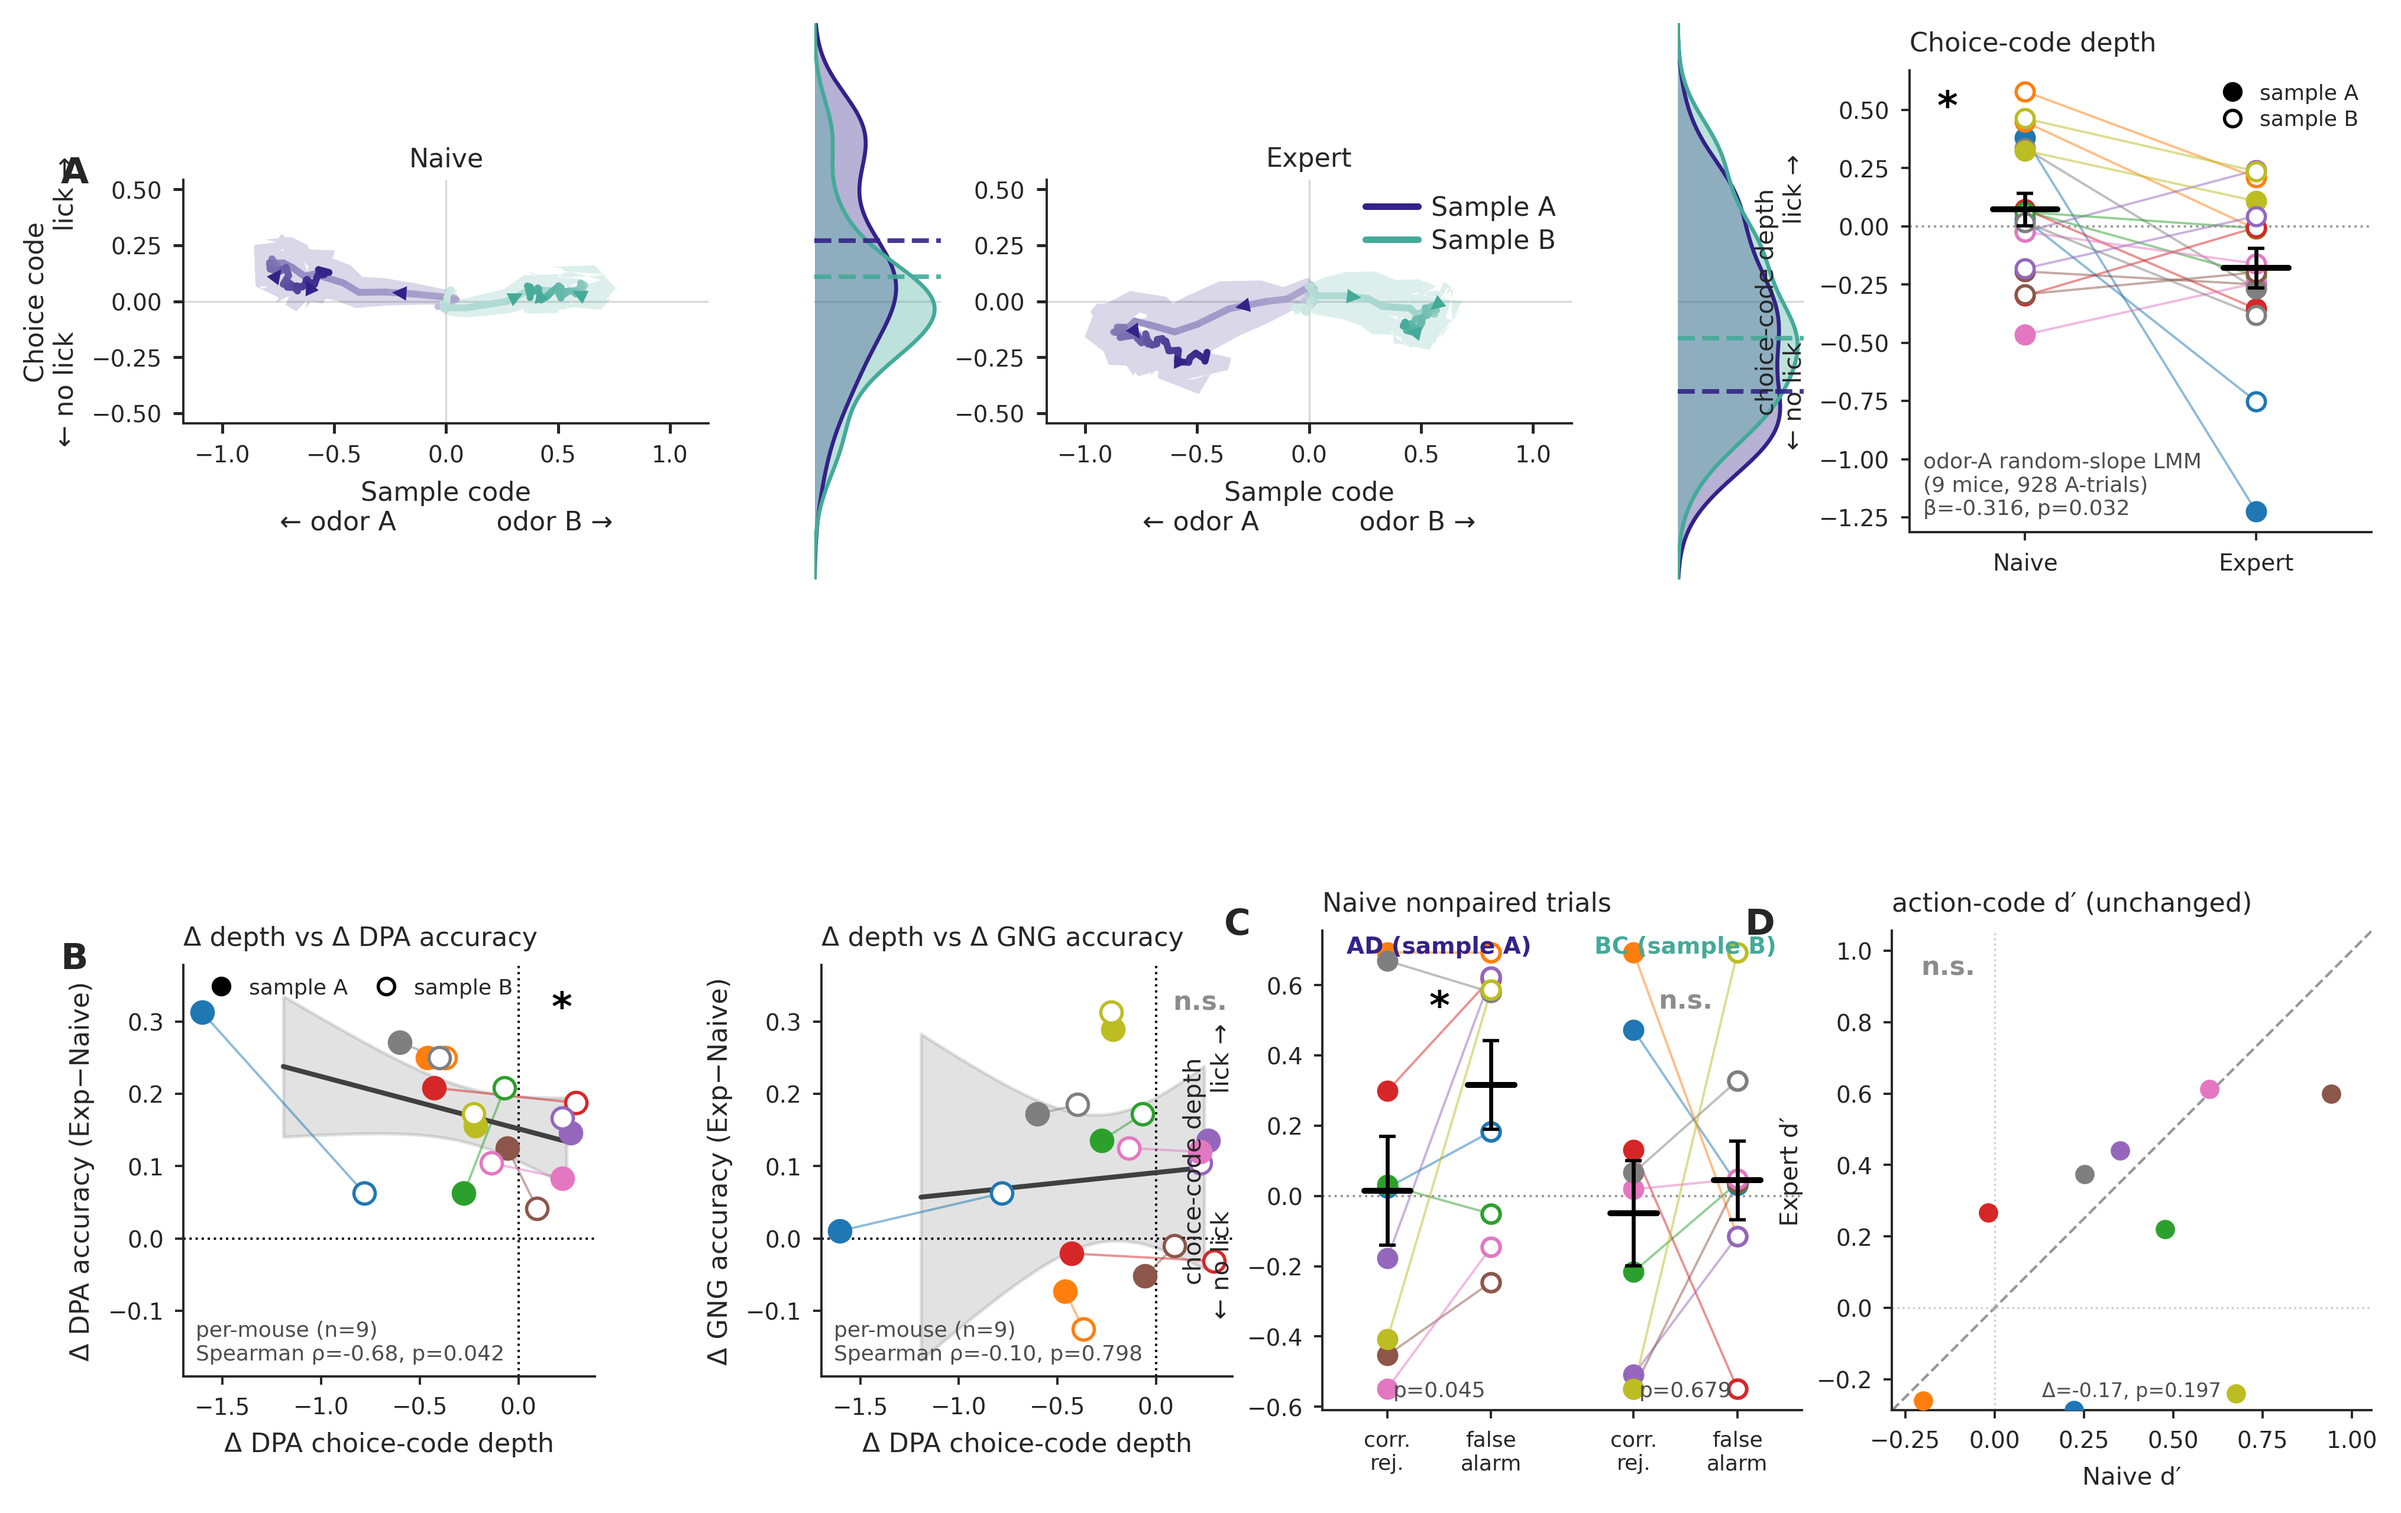
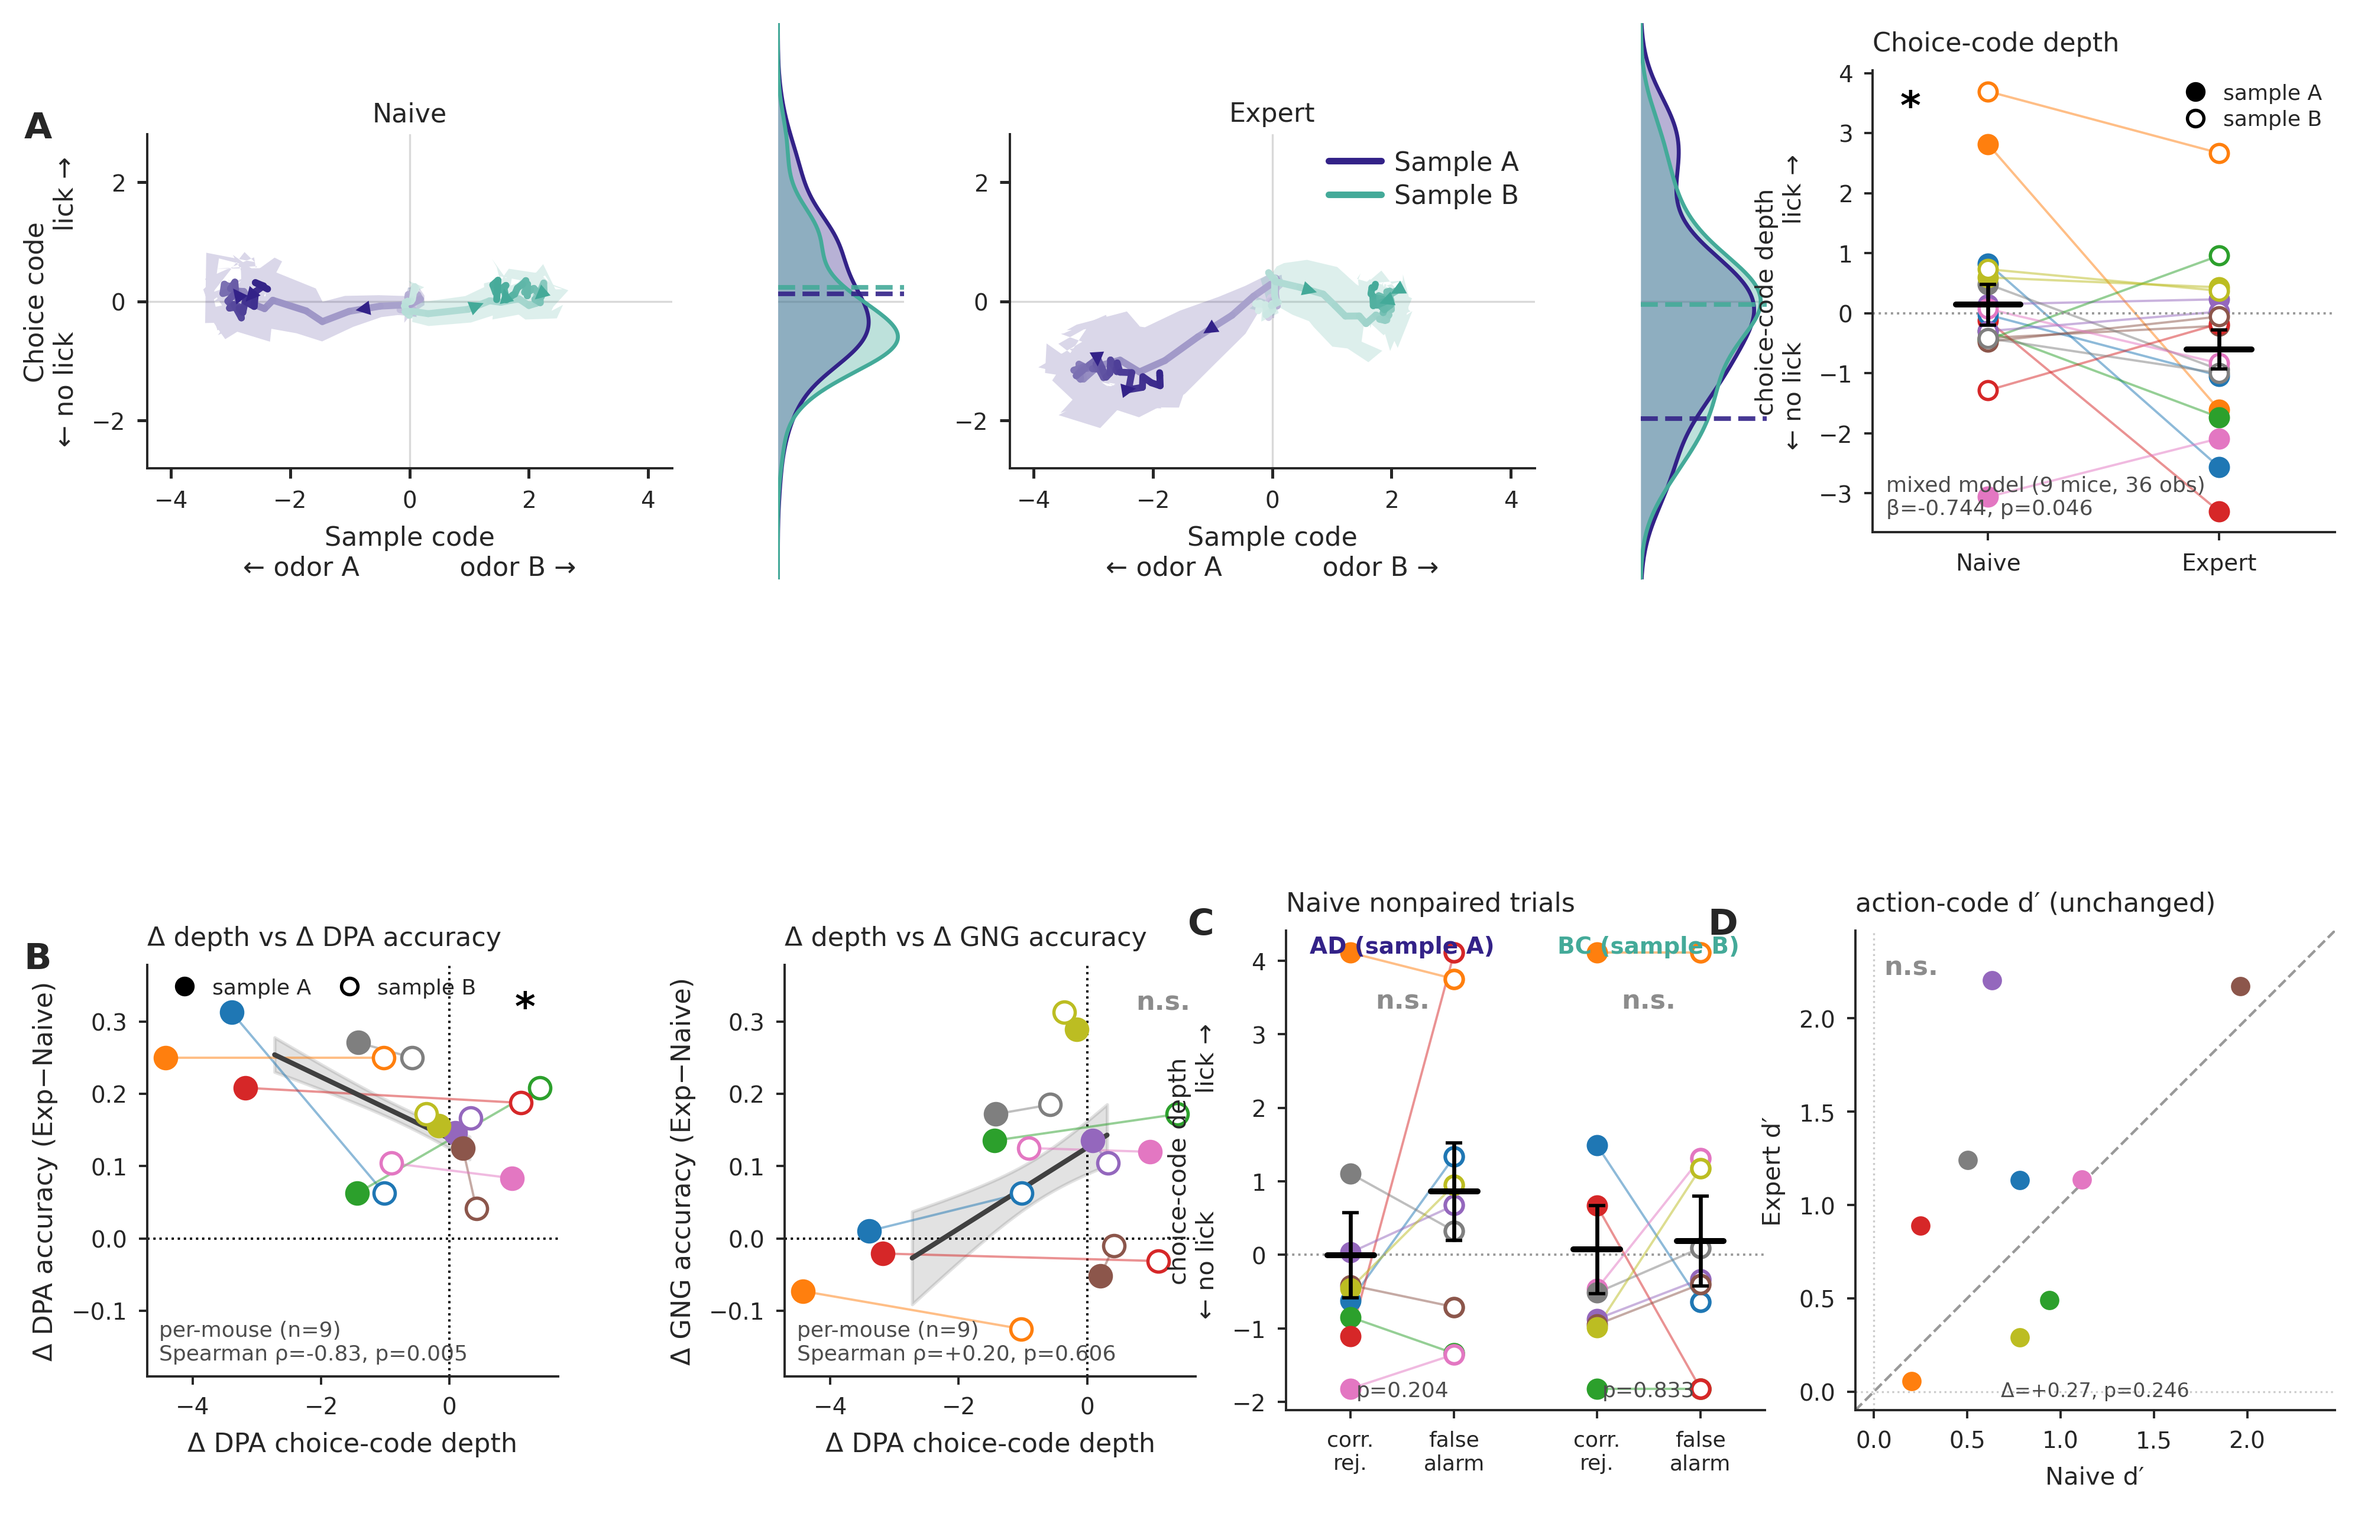
overlaps: antact+robust as ALTERNATIVE figures; restore 57-63 as the default Fig 3/Fig 4
Reverses the 'make default' change (f906214). Canonical Fig 3 (fig_overlaps_manifold.png)
and Fig 4 (fig_overlaps_main_ab_dpaact.png) are back to the original 57-63 pooled-evoked
build. The 48-62 antact + robust build is now a separate ALTERNATIVE for each figure:
- fig_overlaps_main_native.py --antact --robust -> fig_overlaps_main_ab_dpaact_antact_robust
- fig_overlaps_manifold.py    --antact --robust -> fig_overlaps_manifold_antact_robust
  (Fig 3 alt now ALSO uses robust units, per request.)
Removed the sys.argv injection / FILE_SUF override, so the flags no longer default on;
main_panels unchanged. serve_figures MAIN now has 4 cards (Fig 3, Fig 3 alt, Fig 4,
Fig 4 alt); removed the _legacy files.

Claude-Session: https://claude.ai/code/session_014C5FayLYaQfdBBbGQSqtn3

diff --git a/overlaps/fig_overlaps_main_native.py b/overlaps/fig_overlaps_main_native.py
@@ -13,12 +13,11 @@ unchanged (`fig_overlaps_main_ab{FILE_SUF}`) so existing gallery/doc references 
 
 Run:  cd /home/leon/dual/overlaps
       /home/leon/mambaforge/envs/dual/bin/python fig_overlaps_main_native.py
-Output: figures/overlaps/main/{png,svg}/fig_overlaps_main_ab_dpaact.{png,svg}
+Output: figures/overlaps/main/{png,svg}/fig_overlaps_main_ab_dpaact.{png,svg}  (default = 57-63 pooled-evoked)
 
-DEFAULT build (2026-08-06) = single anticipatory+action axis (choice @ bins 48-62) + robust sample-separation
-units + trial-level odor-A random-slope LMM. This is the settled Fig-4 convention and matches Fig 3's axis
-(fig_overlaps_manifold.py also defaults to 48-62). Pass --legacy for the old 57-63 pooled-evoked build
-(→ fig_overlaps_main_ab_dpaact_legacy).
+ALTERNATIVE build: --antact (single anticipatory+action axis, choice @ bins 48-62) + --robust (robust
+sample-separation units + trial-level odor-A random-slope LMM) → fig_overlaps_main_ab_dpaact_antact_robust.
+(All three panels ★ on that axis: push p=.032, coupling ρ=-.68 p=.042, FA/CR p=.045.)
 
 See main_panels.py for the full analysis/method docstring and the --eqnorm/--testwin/--l1/--lda/--cv10/
 --ld/--ld05/--gngact/--antact/--robust flags (parsed at import from sys.argv).
@@ -27,22 +26,12 @@ import sys, os
 os.chdir(os.path.dirname(os.path.abspath(__file__)))
 sys.path.insert(0, '/home/leon/dual/')
 
-# Fig 4 DEFAULTS to the settled build (2026-08-06): single anticipatory+action axis (bins 48-62) + robust
-# sample-separation units + trial-level odor-A random-slope LMM. Pass --legacy for the old 57-63 pooled-evoked
-# build. Injected here because main_panels parses sys.argv AT IMPORT; scoped to THIS figure so the shared
-# main_panels / manifold figure defaults are unchanged.
-_LEGACY = '--legacy' in sys.argv[1:]
-if not _LEGACY:
-    for _f in ('--antact', '--robust'):
-        if _f not in sys.argv:
-            sys.argv.append(_f)
-
 # Import the module: loads the tensors, applies the uniform normalisation, and defines every panel builder
 # (renders nothing). Pull ALL of its module-level names into this script's globals so the assembly reads as before.
+# DEFAULT (no flags) = 57-63 pooled-evoked (the canonical Fig 4). --antact (48-62 axis) + --robust (sample-sep
+# units + trial-level odor-A random-slope LMM) produce the ALTERNATIVE → fig_overlaps_main_ab_dpaact_antact_robust.
 import main_panels as _MP
 globals().update({k: v for k, v in vars(_MP).items() if not k.startswith("__")})
-# Keep the CANONICAL Fig-4 filename for the (new) default build; --legacy writes a distinct _legacy file.
-FILE_SUF = (FILE_SUF + '_legacy') if _LEGACY else FILE_SUF.replace('_antact', '').replace('_robust', '')
 
 
 if __name__ == '__main__':

diff --git a/overlaps/fig_overlaps_manifold.py b/overlaps/fig_overlaps_manifold.py
@@ -18,9 +18,9 @@ Bridges Fig 2 (low-dimensional, factorised) to Fig 4 (learning repositions the s
 Panel A reuses the code builders from main_panels.py; panels B/C/D read cached arrays
 (figures/overlaps/ccgp/matrices_cache_acc.pkl, from fig_ccgp_matrices_pseudo.py --acc); panel E reads
 permouse_ccgp_cache.pkl (fig_ccgp.py). Output figures/overlaps/manifold/{png,svg}/fig_overlaps_manifold.{png,svg}
-DEFAULT axis (2026-08-06) = 48-62 (choice/action window), consistent with Fig 4 (fig_overlaps_main_native.py);
-pass --legacy for the old 57-63 axis (→ fig_overlaps_manifold_legacy). Affects panel A's choice trace and panel
-C's shared-action cosine (both read the DPA action axis).
+ALTERNATIVE build: --antact (48-62 action axis) + --robust (sample-sep units) → fig_overlaps_manifold_antact_robust
+(consistent with Fig 4's alternative). Affects panel A's choice trace + panel C's shared-action cosine. Default
+(no flags) = 57-63 pooled-evoked.
 """
 import sys, os, warnings, pickle
 warnings.filterwarnings('ignore')
@@ -30,14 +30,9 @@ import numpy as np, pandas as pd
 import seaborn as sns, matplotlib.pyplot as plt
 from scipy.stats import wilcoxon
 
-# Fig 3 DEFAULTS to the 48-62 action axis (--antact) for consistency with Fig 4 (pooled-evoked: the traces /
-# d′ / shared-action cosine don't need robust units). Pass --legacy for the old 57-63 axis. Injected before
-# importing main_panels (parses sys.argv at import); scoped to THIS figure so main_panels' global default is off.
-_LEGACY = '--legacy' in sys.argv[1:]
-if not _LEGACY and '--antact' not in sys.argv:
-    sys.argv.append('--antact')
-
 # Pull main_panels' data + code builders (traces) into globals (renders nothing).
+# DEFAULT (no flags) = 57-63 pooled-evoked (canonical Fig 3). --antact (48-62 axis) + --robust (sample-sep units)
+# produce the ALTERNATIVE → fig_overlaps_manifold_antact_robust (consistent with Fig 4's alternative).
 import main_panels as _MP
 globals().update({k: v for k, v in vars(_MP).items() if not k.startswith('__')})
 
@@ -230,7 +225,7 @@ if __name__ == '__main__':
     fig.suptitle('The dual-task codes are abstract and reused across tasks', x=0.008, ha='left',
                  y=0.975, fontsize=10)
     OUT = 'figures/overlaps/manifold'
-    _SUF = '_legacy' if _LEGACY else ''                                    # default → canonical fig_overlaps_manifold.png (48-62); --legacy → _legacy (57-63)
+    _SUF = ('_antact' if _MP.ANTACT else '') + ('_robust' if _MP.ROBUST else '')  # default → canonical (57-63); --antact --robust → _antact_robust
     for s in ('png', 'svg'):
         os.makedirs(f'{OUT}/{s}', exist_ok=True)
     fig.savefig(f'{OUT}/png/fig_overlaps_manifold{_SUF}.png', bbox_inches='tight')

diff --git a/serve_figures.py b/serve_figures.py
@@ -39,10 +39,14 @@ MAIN = [
      'overlaps/figures/overlaps/behavior/png/behavior_main.png'),
     ('Fig 2 — dPCA: low-dimensional & factorised',
      'pca/figures/pseudo/story/png/fig_dpca_story_main.png'),
-    ('Fig 3 — manifold: abstract & reused across tasks (48–62 action axis)',
+    ('Fig 3 — manifold: abstract & reused across tasks',
      'overlaps/figures/overlaps/manifold/png/fig_overlaps_manifold.png'),
-    ('Fig 4 — push / repositioning (48–62 action axis, robust units, random-slope LMM)',
+    ('Fig 3 (alt) — manifold on the antact+robust action axis (48–62) ★NEW',
+     'overlaps/figures/overlaps/manifold/png/fig_overlaps_manifold_antact_robust.png'),
+    ('Fig 4 — push / repositioning on the manifold (overlaps)',
      'overlaps/figures/overlaps/main/png/fig_overlaps_main_ab_dpaact.png'),
+    ('Fig 4 (alt) — push on the antact+robust action axis (48–62, random-slope LMM) ★NEW',
+     'overlaps/figures/overlaps/main/png/fig_overlaps_main_ab_dpaact_antact_robust.png'),
     ('Fig 5 — behaviour / opto (ACC→Prl silencing)',
      'overlaps/figures/overlaps/behavior/png/behavior_opto_main.png'),
 ]
